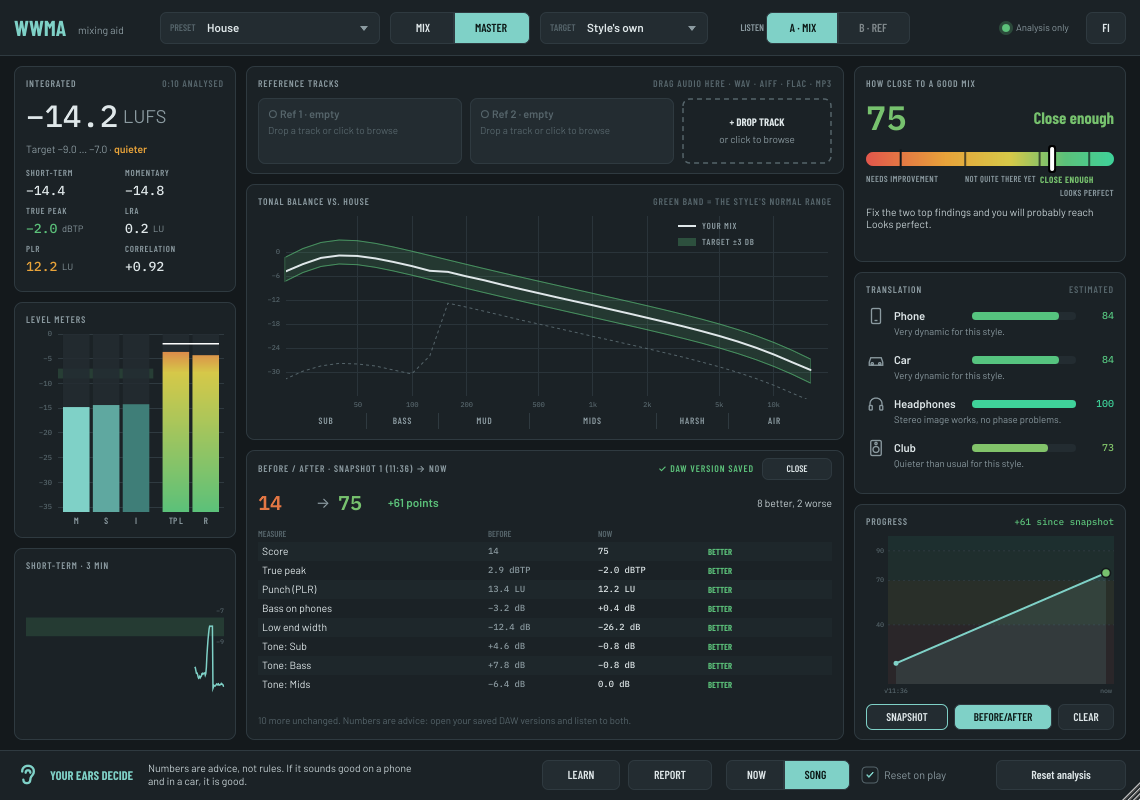
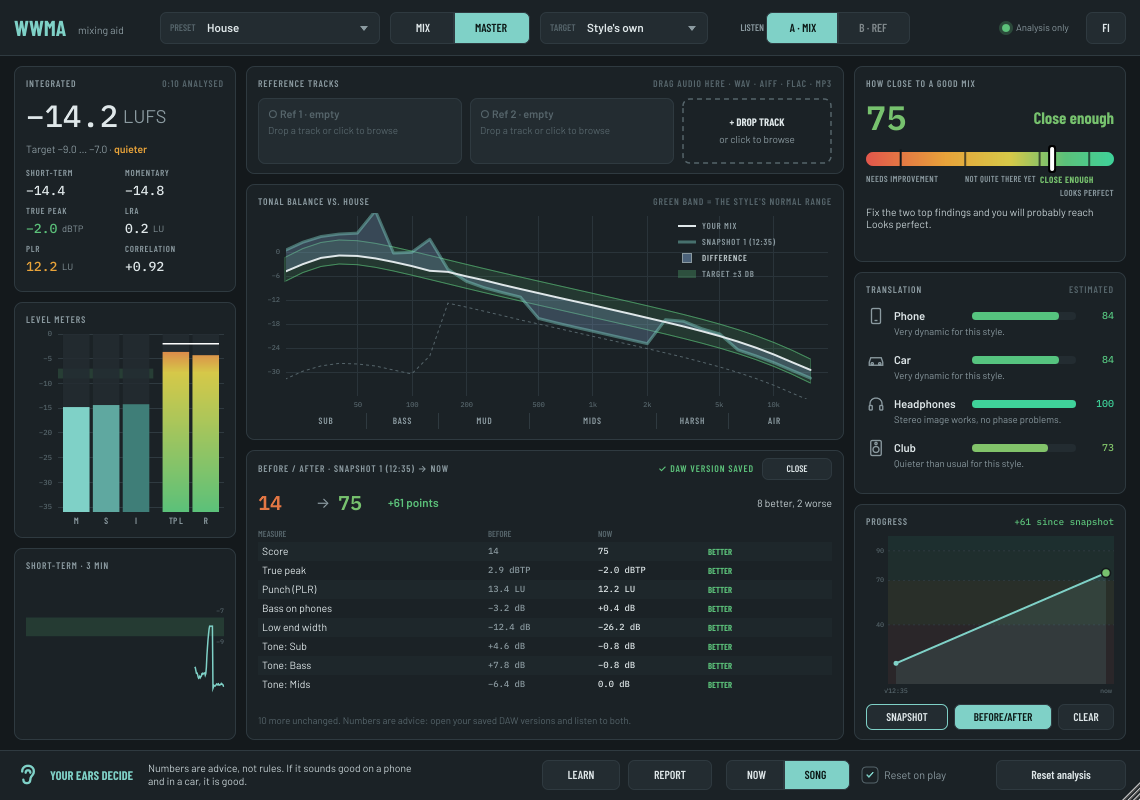
Show the newest snapshot's tonal curve as a ghost line, with the difference filled
Snapshots now store the tonal curve. The tonal view draws it as a faint line and
fills the gap to the live mix; the fill toggles from the legend and is saved with
the project.

Claude-Session: https://claude.ai/code/session_01LuH9CFUZAbU5iA7mRvLogc

diff --git a/Source/ui/Components.cpp b/Source/ui/Components.cpp
@@ -308,6 +308,20 @@ void HistoryBox::paint (juce::Graphics& g)
 }
 
 // =====================================================================================
+void TonalView::mouseUp (const juce::MouseEvent& e)
+{
+    if (! differenceToggle.contains (e.position))
+        return;
+    setShowDifference (! showDifference);
+    if (onShowDifferenceChanged)
+        onShowDifferenceChanged (showDifference);
+}
+
+void TonalView::mouseMove (const juce::MouseEvent& e)
+{
+    setMouseCursor (differenceToggle.contains (e.position) ? juce::MouseCursor::PointingHandCursor : juce::MouseCursor::NormalCursor);
+}
+
 void TonalView::paint (juce::Graphics& g)
 {
     const auto lang = state.lang;
@@ -319,6 +333,10 @@ void TonalView::paint (juce::Graphics& g)
     auto head = r.removeFromTop (16);
     drawLabel (g, t (lang, "Tonal balance vs. ", "Taajuustasapaino vs. ") + state.profileName, head);
     const auto* refView = state.activeRefView();
+    const SavedSnapshot* ghost = ! state.snapshots.empty() && state.snapshots.back().spectrum.size() == (size_t) Bands::count
+                                     ? &state.snapshots.back() : nullptr;
+    const auto ghostColour = colours::accent.withAlpha (0.45f);
+    const auto diffColour = colours::info;
     if (refView != nullptr)
         drawLabel (g, t (lang, "ref level-matched ", "ref tasattu ") + fmt (lang, state.refGainDb, 1, true) + " dB", head, colours::ref, juce::Justification::centredRight);
     else if (! state.styleChipShown)
@@ -400,11 +418,32 @@ void TonalView::paint (juce::Graphics& g)
 
     // legend
     {
-        auto lg = juce::Rectangle<float> (plot.getRight() - 150.0f, plot.getY() + 4.0f, 150.0f, 46.0f);
+        auto lg = juce::Rectangle<float> (plot.getRight() - 150.0f, plot.getY() + 4.0f, 150.0f, 80.0f);
         g.setColour (colours::text);
         g.fillRect (lg.getX(), lg.getY() + 5.0f, 18.0f, 2.0f);
         drawLabel (g, t (lang, "Your mix", "Sinun miksi"), lg.removeFromTop (12.0f).withTrimmedLeft (24.0f).toNearestInt(), colours::dim, juce::Justification::centredLeft, 10.5f);
         lg.removeFromTop (4.0f);
+        if (ghost != nullptr)
+        {
+            g.setColour (ghostColour);
+            g.fillRect (lg.getX(), lg.getY() + 4.5f, 18.0f, 3.0f);
+            drawLabel (g, t (lang, "Snapshot ", "Snapshot ") + juce::String ((int) state.snapshots.size()) + " (" + ghost->time.formatted ("%H:%M") + ")",
+                       lg.removeFromTop (12.0f).withTrimmedLeft (24.0f).toNearestInt(), colours::dim, juce::Justification::centredLeft, 10.5f);
+            lg.removeFromTop (4.0f);
+            // a small check box: fill the difference between then and now
+            auto row = lg.removeFromTop (12.0f);
+            differenceToggle = row.expanded (2.0f, 2.0f);
+            auto box = juce::Rectangle<float> (row.getX() + 4.0f, row.getY() + 1.0f, 10.0f, 10.0f);
+            g.setColour (diffColour.withAlpha (showDifference ? 0.6f : 0.0f));
+            g.fillRect (box);
+            g.setColour (colours::dim);
+            g.drawRect (box, 1.0f);
+            drawLabel (g, t (lang, "Difference", "Ero"), row.withTrimmedLeft (24.0f).toNearestInt(),
+                       showDifference ? colours::soft : colours::faint, juce::Justification::centredLeft, 10.5f);
+            lg.removeFromTop (4.0f);
+        }
+        else
+            differenceToggle = {};
         if (refView != nullptr)
         {
             for (float x = 0.0f; x < 18.0f; x += 7.0f)
@@ -464,6 +503,29 @@ void TonalView::paint (juce::Graphics& g)
     }
 
     {
+        if (ghost != nullptr)
+        {
+            // the newest snapshot as a faint "ghost": how far the tone has moved since then
+            std::array<float, Bands::count> ghostSpec {};
+            std::copy (ghost->spectrum.begin(), ghost->spectrum.end(), ghostSpec.begin());
+            const auto ghostPts = pointsOf (ghostSpec, 0.0f);
+            if (showDifference)
+            {
+                // the gap between then and now
+                juce::Path gap;
+                gap.startNewSubPath (mix.front());
+                for (size_t b = 1; b < mix.size(); ++b)
+                    gap.lineTo (mix[b]);
+                for (size_t b = ghostPts.size(); b-- > 0;)
+                    gap.lineTo (ghostPts[b]);
+                gap.closeSubPath();
+                gap.setUsingNonZeroWinding (false);
+                g.setColour (diffColour.withAlpha (0.35f));
+                g.fillPath (gap);
+            }
+            g.setColour (ghostColour);
+            g.strokePath (strokeOf (ghostPts), juce::PathStrokeType (3.0f, juce::PathStrokeType::curved, juce::PathStrokeType::rounded));
+        }
         juce::Path dashed;
         const float dashes[] = { 3.0f, 3.0f };
         juce::PathStrokeType (1.0f).createDashedStroke (dashed, strokeOf (side), dashes, 2);

diff --git a/Source/PluginProcessor.cpp b/Source/PluginProcessor.cpp
@@ -200,6 +200,10 @@ std::vector<SavedSnapshot> WwmaAudioProcessor::getSnapshots() const
         s.confirmedAt = juce::Time ((juce::int64) c.getProperty ("savedAt", 0));
         for (const auto& m : c.getChildWithName ("Metrics"))
             s.metrics[m.getProperty ("id").toString().toStdString()] = { (float) m.getProperty ("v"), (float) m.getProperty ("o") };
+        const auto spec = juce::StringArray::fromTokens (c.getProperty ("spec").toString(), " ", "");
+        if (spec.size() == Bands::count)
+            for (const auto& v : spec)
+                s.spectrum.push_back (v.getFloatValue());
         out.push_back (s);
     }
     return out;
@@ -212,6 +216,13 @@ void WwmaAudioProcessor::addSnapshot (const SavedSnapshot& s)
     point.setProperty ("t", s.time.toMilliseconds(), nullptr);
     point.setProperty ("score", s.score, nullptr);
     point.setProperty ("saved", s.confirmed, nullptr);
+    if (s.spectrum.size() == (size_t) Bands::count)
+    {
+        juce::StringArray spec;
+        for (auto v : s.spectrum)
+            spec.add (juce::String (v, 2));
+        point.setProperty ("spec", spec.joinIntoString (" "), nullptr);
+    }
     juce::ValueTree metrics ("Metrics");
     for (const auto& [id, vo] : s.metrics)
     {
@@ -244,6 +255,8 @@ bool WwmaAudioProcessor::latestSnapshotNeedsConfirmation() const
     return list.isValid() && list.getNumChildren() > 0 && ! (bool) list.getChild (list.getNumChildren() - 1).getProperty ("saved", false);
 }
 
+bool WwmaAudioProcessor::getShowDifference() const { return (bool) apvts.state.getProperty ("ghostDiff", true); }
+void WwmaAudioProcessor::setShowDifference (bool on) { apvts.state.setProperty ("ghostDiff", on, nullptr); }
 bool WwmaAudioProcessor::getLearnMode() const { return (bool) apvts.state.getProperty ("learn", false); }
 void WwmaAudioProcessor::setLearnMode (bool on) { apvts.state.setProperty ("learn", on, nullptr); }
 int WwmaAudioProcessor::getLessonIndex() const { return (int) apvts.state.getProperty ("lesson", 0); }

diff --git a/Source/PluginEditor.cpp b/Source/PluginEditor.cpp
@@ -111,6 +111,8 @@ WwmaAudioProcessorEditor::WwmaAudioProcessorEditor (WwmaAudioProcessor& p)
     learnButton.onClick = [this] { setLearnMode (learnButton.getToggleState()); };
     reportButton.onClick = [this] { chooseReportFile(); };
     state.learnMode = proc.getLearnMode();
+    tonal.setShowDifference (proc.getShowDifference());
+    tonal.onShowDifferenceChanged = [this] (bool b) { proc.setShowDifference (b); };
     state.lessonIndex = juce::jlimit (0, lessonCount() - 1, proc.getLessonIndex());
     state.lessonsDone = proc.getLessonsDone();
     learnButton.setToggleState (state.learnMode, juce::dontSendNotification);
@@ -517,6 +519,7 @@ void WwmaAudioProcessorEditor::saveSnapshot()
     snap.time = juce::Time::getCurrentTime();
     snap.score = state.assessment.score;
     snap.metrics = toMap (keyMetrics (state.assessment, state.profile, state.stage));
+    snap.spectrum.assign (state.assessment.measures.spectrum.begin(), state.assessment.measures.spectrum.end());
     proc.addSnapshot (snap);
     loadSnapshots();
     setBaselineFromCurrent();

diff --git a/tools/SelfTest.cpp b/tools/SelfTest.cpp
@@ -690,6 +690,13 @@ int main (int argc, char* argv[])
             const auto restored = q.getSnapshots();
             check (restored.size() == 1 && restored[0].confirmed && restored[0].metrics.size() == snaps[0].metrics.size(),
                    "snapshots and their confirmation are saved with the project");
+            check (snaps[0].spectrum.size() == (size_t) Bands::count && restored[0].spectrum.size() == (size_t) Bands::count
+                       && near (restored[0].spectrum[12], snaps[0].spectrum[12], 0.01),
+                   "the snapshot keeps its tonal curve for the ghost line");
+            check (s.editor->getShowDifference(), "the difference to the ghost line is shown by default");
+            s.editor->setShowDifference (false);
+            check (! s.p.getShowDifference(), "  and it can be turned off (saved with the project)");
+            s.editor->setShowDifference (true);
 
             s.p.analyzer.requestReset();
             s.play ({});

diff --git a/Source/ui/Components.h b/Source/ui/Components.h
@@ -147,8 +147,16 @@ class TonalView : public juce::Component
 public:
     explicit TonalView (const ViewState& s) : state (s) {}
     void paint (juce::Graphics&) override;
+    void mouseUp (const juce::MouseEvent&) override;
+    void mouseMove (const juce::MouseEvent&) override;
+    /** Fill the gap between the snapshot's ghost curve and the mix (click the legend to toggle). */
+    void setShowDifference (bool b) { showDifference = b; repaint(); }
+    bool getShowDifference() const noexcept { return showDifference; }
+    std::function<void (bool)> onShowDifferenceChanged;
 private:
     const ViewState& state;
+    bool showDifference = true;
+    juce::Rectangle<float> differenceToggle; // where the legend's toggle was drawn
 };
 
 /** The findings, most important first. Click a card for why it matters and every step. */

diff --git a/Source/PluginEditor.h b/Source/PluginEditor.h
@@ -45,6 +45,9 @@ public:
     const std::vector<wwma::MetricChange>& getChanges() const noexcept { return state.changes; }
     /** Lesson mode. */
     void setLearnMode (bool on);
+    /** The snapshot's ghost curve in the tonal view, and the filled difference to it. */
+    void setShowDifference (bool b) { tonal.setShowDifference (b); proc.setShowDifference (b); }
+    bool getShowDifference() const noexcept { return tonal.getShowDifference(); }
     void showLesson (int index);
     const wwma::LessonCheck& getLessonCheck() const noexcept { return state.lesson; }
     /** Writes the report (Markdown) and its JSON next to it, comparing with the newest earlier

diff --git a/Source/PluginProcessor.h b/Source/PluginProcessor.h
@@ -79,6 +79,8 @@ public:
     bool latestSnapshotNeedsConfirmation() const;
 
     /** Lesson mode: on/off, which lesson is open, and which ones are done. Kept with the project. */
+    bool getShowDifference() const;
+    void setShowDifference (bool on);
     bool getLearnMode() const;
     void setLearnMode (bool on);
     int getLessonIndex() const;

diff --git a/Source/advice/MixReport.h b/Source/advice/MixReport.h
@@ -32,6 +32,7 @@ struct SavedSnapshot
     std::map<std::string, std::pair<float, float>> metrics; // id -> (value, off)
     bool confirmed = false;
     juce::Time confirmedAt;
+    std::vector<float> spectrum; // tonal curve per third-octave band (aligned like Measures::spectrum), empty if not stored
 };
 
 struct MetricChange

diff --git a/README.md b/README.md
@@ -22,7 +22,7 @@ Put it last on your master bus. It listens to your mix and tells you in plain wo
   It also tells you what the next fix is worth.
 - **Translation.** An estimate of how well the mix holds up on a phone, in a car, on headphones and in a club.
 - **Mono check.** Warns when the bass or a wide synth gets quieter when the mix is summed to mono (club systems, phones and many Bluetooth speakers are mono).
-- **Snapshots and before/after.** Save a snapshot before a change. WWMA then reminds you to save your DAW project as a new version (Save As, "My song v3") and asks you to confirm with **I saved it**, so you can always go back. **Before/after** shows every number before and now, marked better or worse.
+- **Snapshots and before/after.** Save a snapshot before a change. WWMA then reminds you to save your DAW project as a new version (Save As, "My song v3") and asks you to confirm with **I saved it**, so you can always go back. **Before/after** shows every number before and now, marked better or worse. The snapshot's tonal curve stays on the spectrum as a ghost line, with the difference filled in another colour (can be turned off).
 - **Learning mode.** Eight short, hands-on tasks, like "Duck the bass under the kick" or "Make it mono-safe". A bar fills up as you get closer, and WWMA tells you when you've made it.
 - **Mix report.** Save a Markdown report (with a JSON copy) of the score, the findings, every number and your snapshots. A later report in the same folder shows what got better or worse since the previous one. See the [example](docs/example-report.md).
 - **Reference tracks.** Drag up to two tracks (WAV, AIFF, FLAC, MP3, OGG; macOS and Windows also read M4A) onto the window. Each one is analysed once in the background. You then see:

diff --git a/docs/OPAS.md b/docs/OPAS.md
@@ -52,7 +52,7 @@ Prosentti jaetaan lähisukulaisten kesken: "House 72 %" tarkoittaa koko house-pe
 1. Paina **Snapshot** ennen kuin muutat jotain. WWMA tallentaa pisteet ja kaikki tärkeät lukemat.
 2. Edistyminen-paneeli pyytää sen jälkeen **tallentamaan DAW-projektin uutena versiona** (File > Save As..., esim. "Biisi v3"). Näin pääset aina takaisin muutosta edeltävään miksiin.
 3. Kun olet tallentanut, kuittaa painamalla **Tallensin**. Muistutus pysyy näkyvissä siihen asti, ja snapshot muistaa, että sille on DAW-versio (✓ kaaviossa).
-4. Tee muutos ja soita sama kohta uudestaan.
+4. Tee muutos ja soita sama kohta uudestaan. Taajuustasapainossa näkyy snapshotin käyrä himmeänä turkoosina **haamukäyränä**, ja ero sen ja miksisi välillä on täytetty sinisellä, joten näet heti, kuinka paljon sointi on muuttunut. Selitteen **Ero**-ruudusta saat täytön pois päältä tai takaisin.
 5. Paina **Ennen/jälkeen**: taulukko näyttää jokaisen lukeman ennen ja nyt, merkittynä PAREMPI, HUONOMPI tai =.
 
 ## 5. Opettelutila

diff --git a/docs/MANUAL.md b/docs/MANUAL.md
@@ -123,7 +123,7 @@ Limits:
 1. Press **Snapshot** before you change something. WWMA stores the score and every key number.
 2. The progress panel then asks you to **save your DAW project as a new version** (File > Save As..., e.g. "My song v3"). That way you can always go back to the mix before the change.
 3. Press **I saved it** once you have. The reminder stays until you do, and the snapshot remembers that a DAW version exists (✓ in the chart).
-4. Make your change and play the same part again.
+4. Make your change and play the same part again. The tonal balance view shows the snapshot's curve as a faint teal **ghost line**, and the gap between it and your mix is filled in blue, so you see at a glance how far the tone has moved. Click **Difference** in the legend to turn the fill off or on.
 5. Press **Before/after**. A table shows every number before and now, marked **BETTER**, **WORSE** or **=**, with the better ones first.
 
 ![The save reminder after a snapshot](images/wwma-save-reminder.png)
